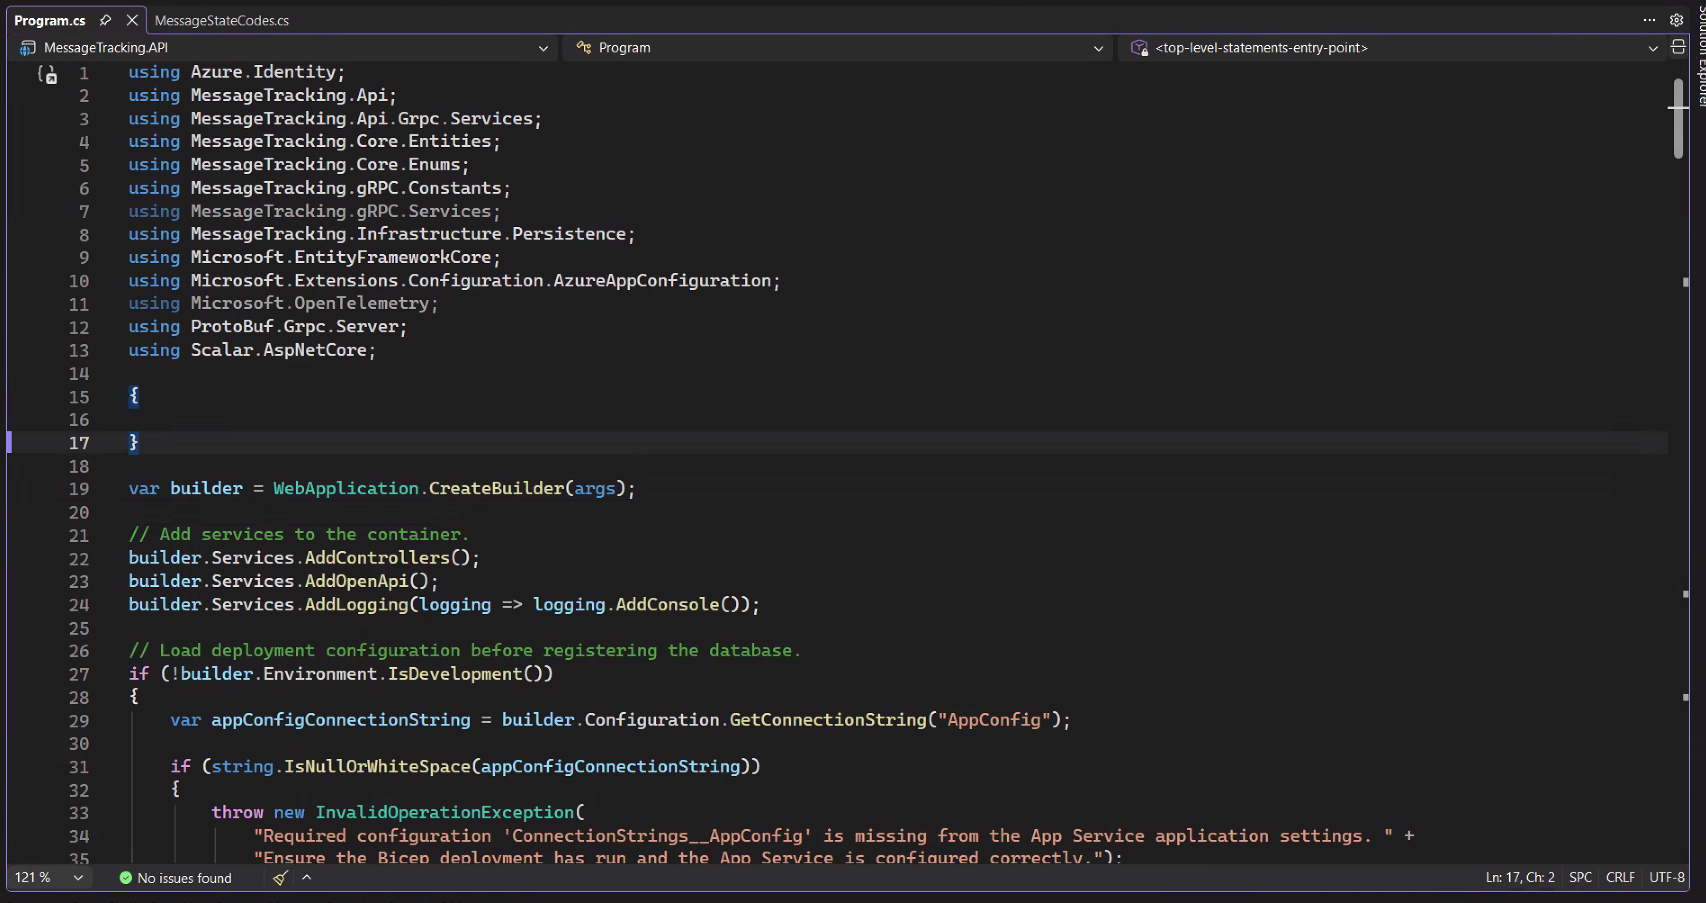
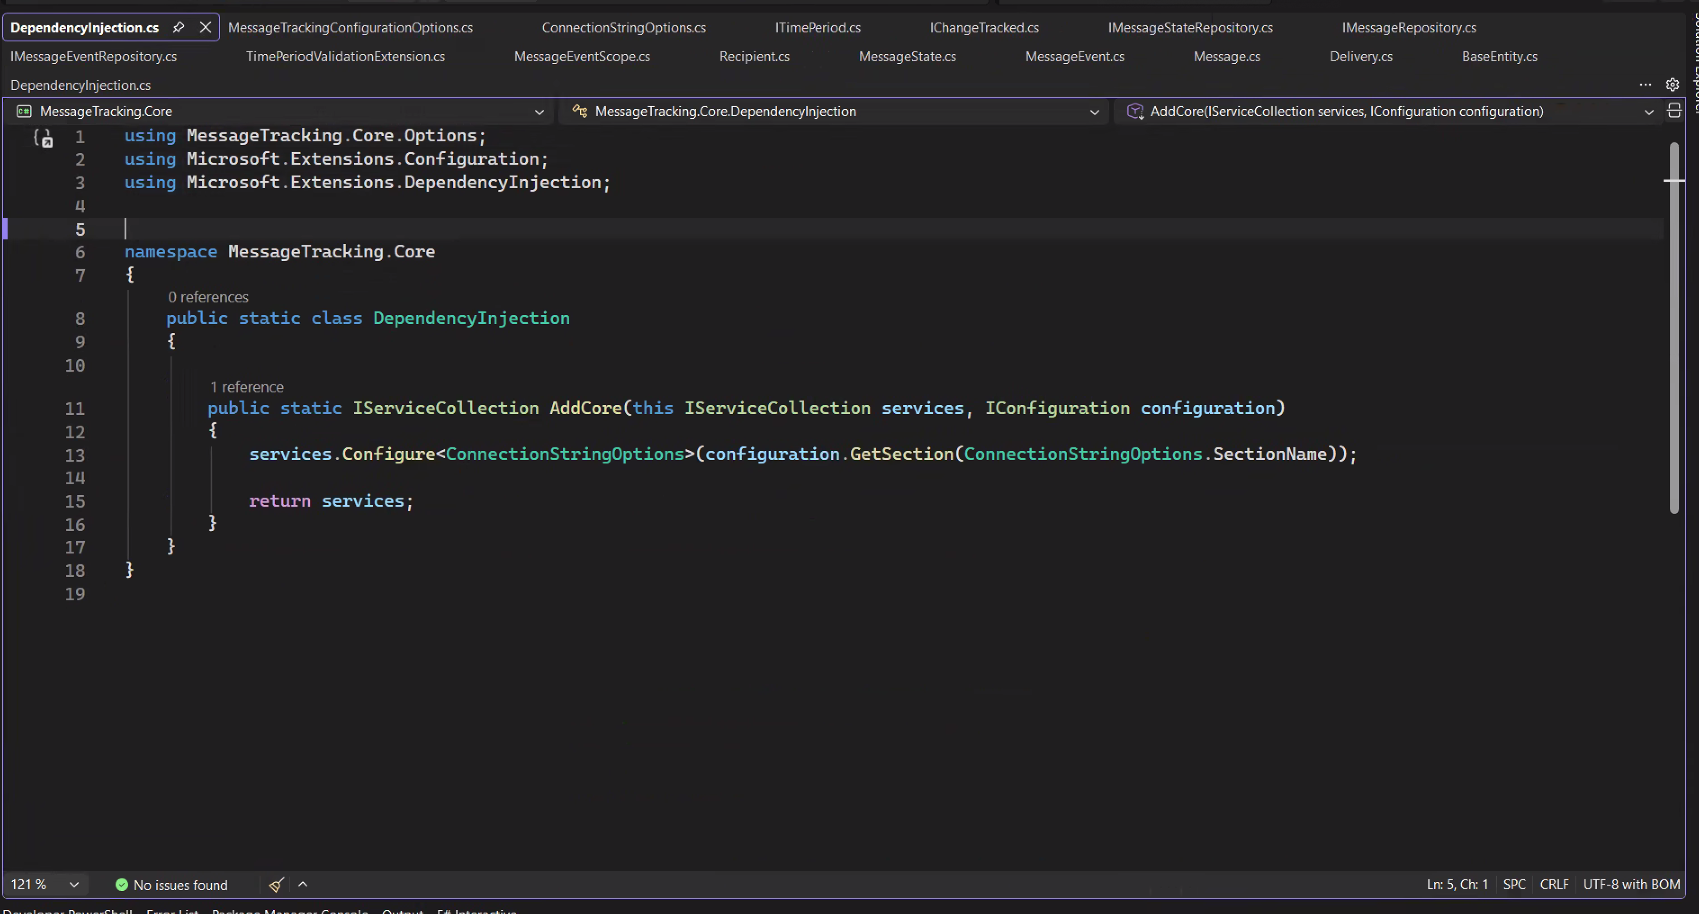
Add captured file: CapturedFile_011_20261128_000609.png

diff --git a/code_capture/completecode_20261127_235053/00_Project_Manifest.md b/code_capture/completecode_20261127_235053/00_Project_Manifest.md
@@ -5,7 +5,7 @@
 - Process: Zoom.exe
 - PID: 23468
 - Monitor: 2 (1920×1080) at (0, -1080)
-- Capture region: 1706×903 at (97, -1010) (monitor-relative: 97, 70)
+- Capture region: 1699×914 at (101, -1017) (monitor-relative: 101, 63)
 
 ## Files captured
 
@@ -48,5 +48,13 @@ This manifest is maintained by Hotkey Capture. Screenshots represent visible sha
   - Stitching: `code_edge_alignment_v1`; unmatched transitions: `0`
 - **CapturedFile_009_20261127_235922.png** — 2 viewport(s), 1706×1806 px, status: `complete`
   - Image: `files/CapturedFile_009_20261127_235922/CapturedFile_009_20261127_235922.png`
+  - Scroll: `mouse_wheel`; fallback: `page_down`; wheel amount: `960`; capture mode: `editor_region`
+  - Stitching: `code_edge_alignment_v1`; unmatched transitions: `1`
+- **CapturedFile_010_20261127_235933.png** — 3 viewport(s), 1706×905 px, status: `complete`
+  - Image: `files/CapturedFile_010_20261127_235933/CapturedFile_010_20261127_235933.png`
+  - Scroll: `mouse_wheel`; fallback: `page_down`; wheel amount: `960`; capture mode: `editor_region`
+  - Stitching: `code_edge_alignment_v1`; unmatched transitions: `0`
+- **CapturedFile_011_20261128_000609.png** — 2 viewport(s), 1699×1828 px, status: `complete`
+  - Image: `files/CapturedFile_011_20261128_000609/CapturedFile_011_20261128_000609.png`
   - Scroll: `mouse_wheel`; fallback: `page_down`; wheel amount: `960`; capture mode: `editor_region`
   - Stitching: `code_edge_alignment_v1`; unmatched transitions: `1`
